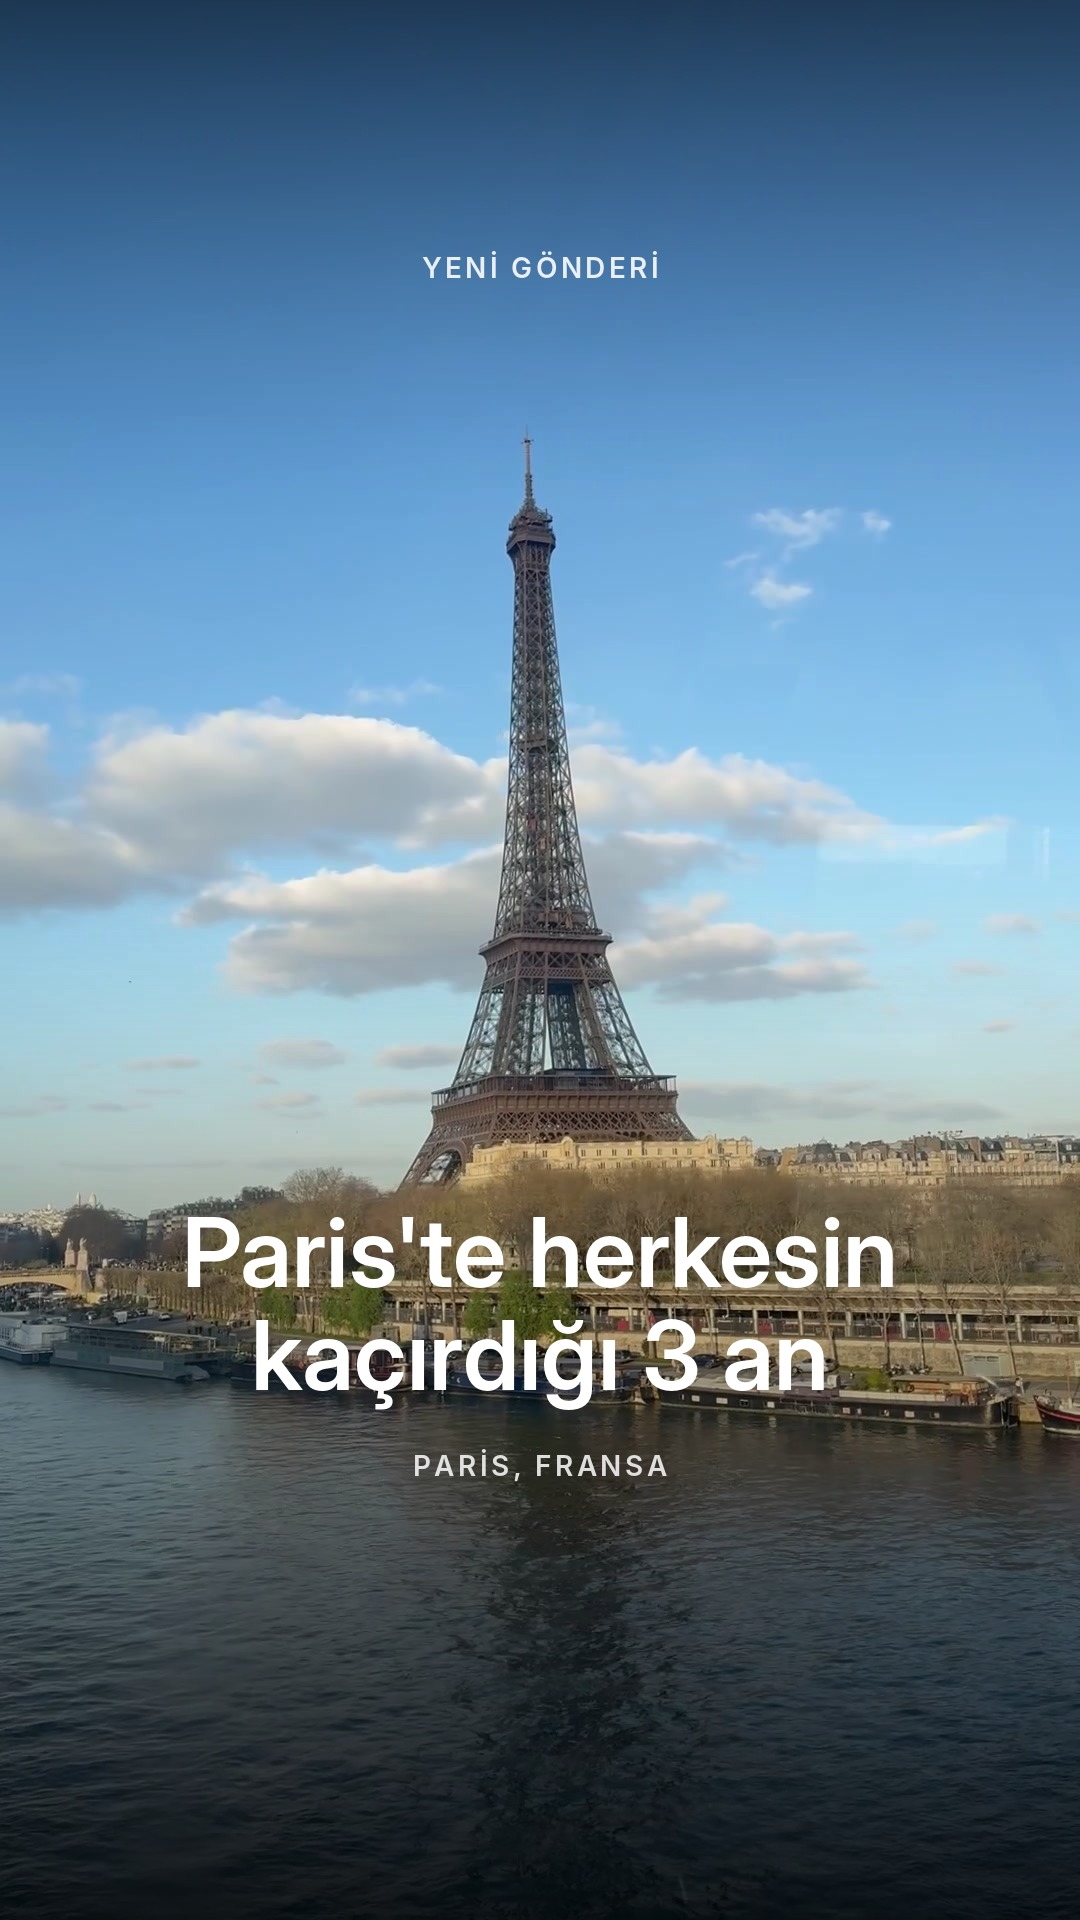
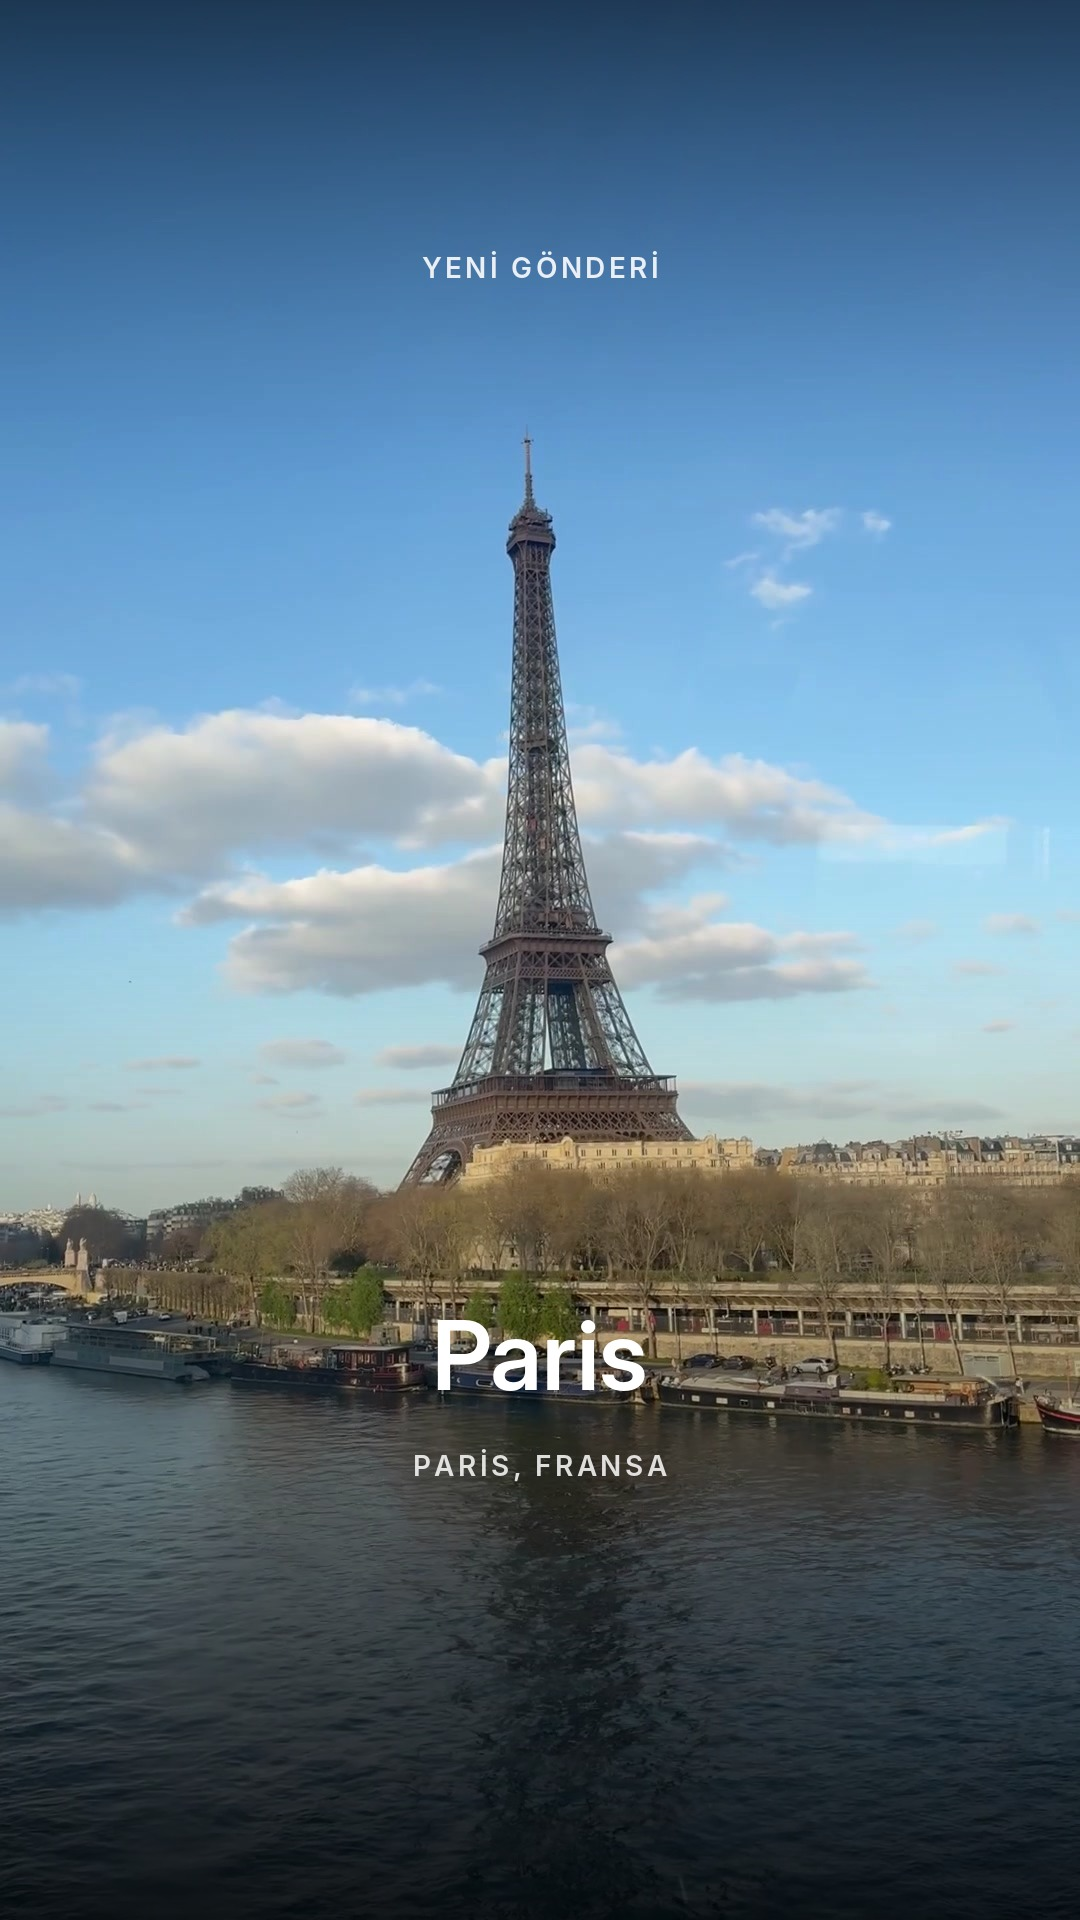
Paris duyuru hikayesi: başlık sadece 'Paris' (story_baslik alanı)
Claude-Session: https://claude.ai/code/session_01Vt7T2XPSbcjmpBAQf5rZ1e

Changed region(s): [[0.1528, 0.625, 0.825, 0.75]]

diff --git a/araclar/uret.py b/araclar/uret.py
@@ -265,9 +265,10 @@ def story(veri):
     harfli(k, (kenar, 250), veri.get("story_ust", "Yeni gönderi"), font(ARA, 28), BEYAZ,
            seffaflik=225, hiza="orta", genislik=genislik)
     bf = font(BASLIK, 96)
-    bh = blok_yuksekligi(veri["baslik"], bf, genislik, 1.08)
+    baslik = veri.get("story_baslik", veri["baslik"])
+    bh = blok_yuksekligi(baslik, bf, genislik, 1.08)
     y = h - 520 - bh
-    y = yaz(k, (kenar, y), veri["baslik"], bf, BEYAZ, genislik, 1.08, hiza="orta") + 48
+    y = yaz(k, (kenar, y), baslik, bf, BEYAZ, genislik, 1.08, hiza="orta") + 48
     if veri.get("konum"):
         harfli(k, (kenar, y), veri["konum"], font(ARA, 28), BEYAZ, seffaflik=215, hiza="orta", genislik=genislik)
     return birlestir(img, k)
